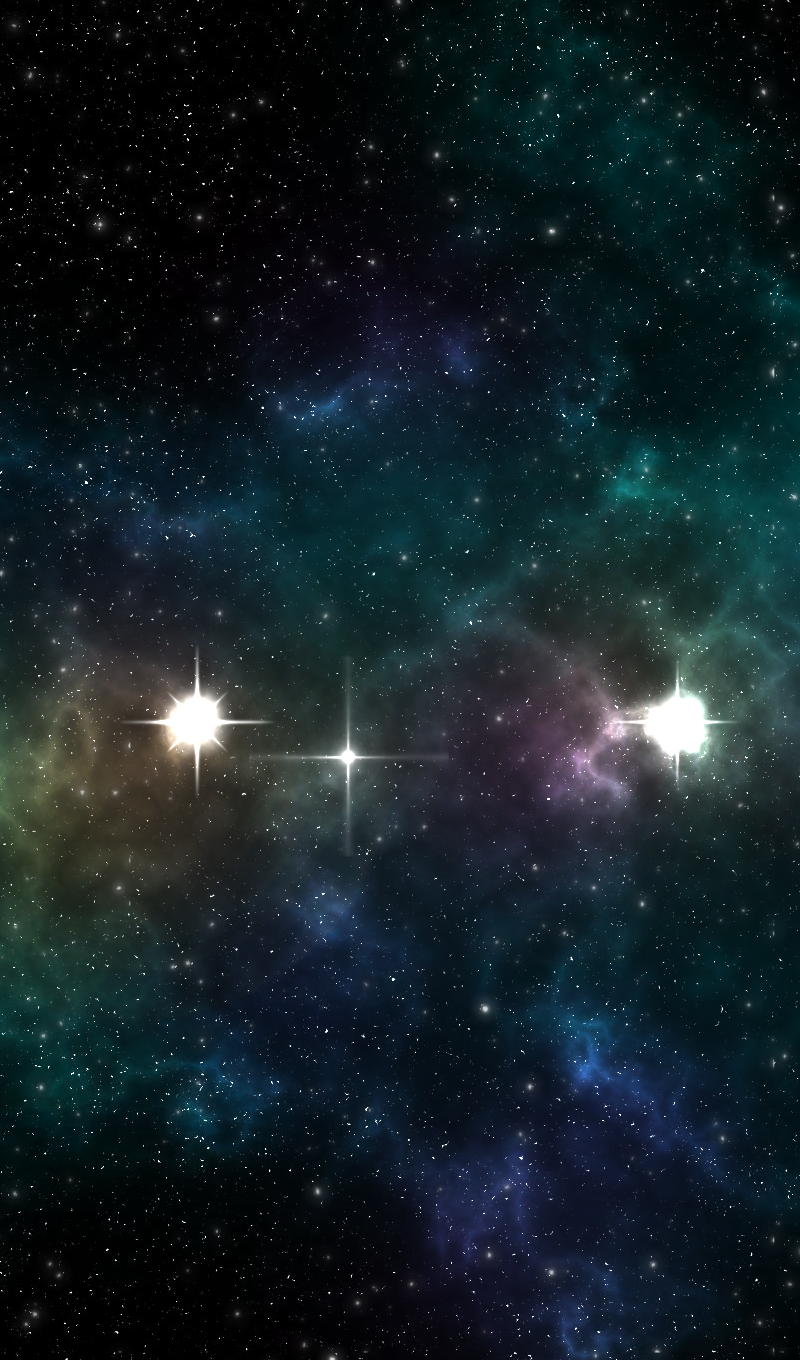
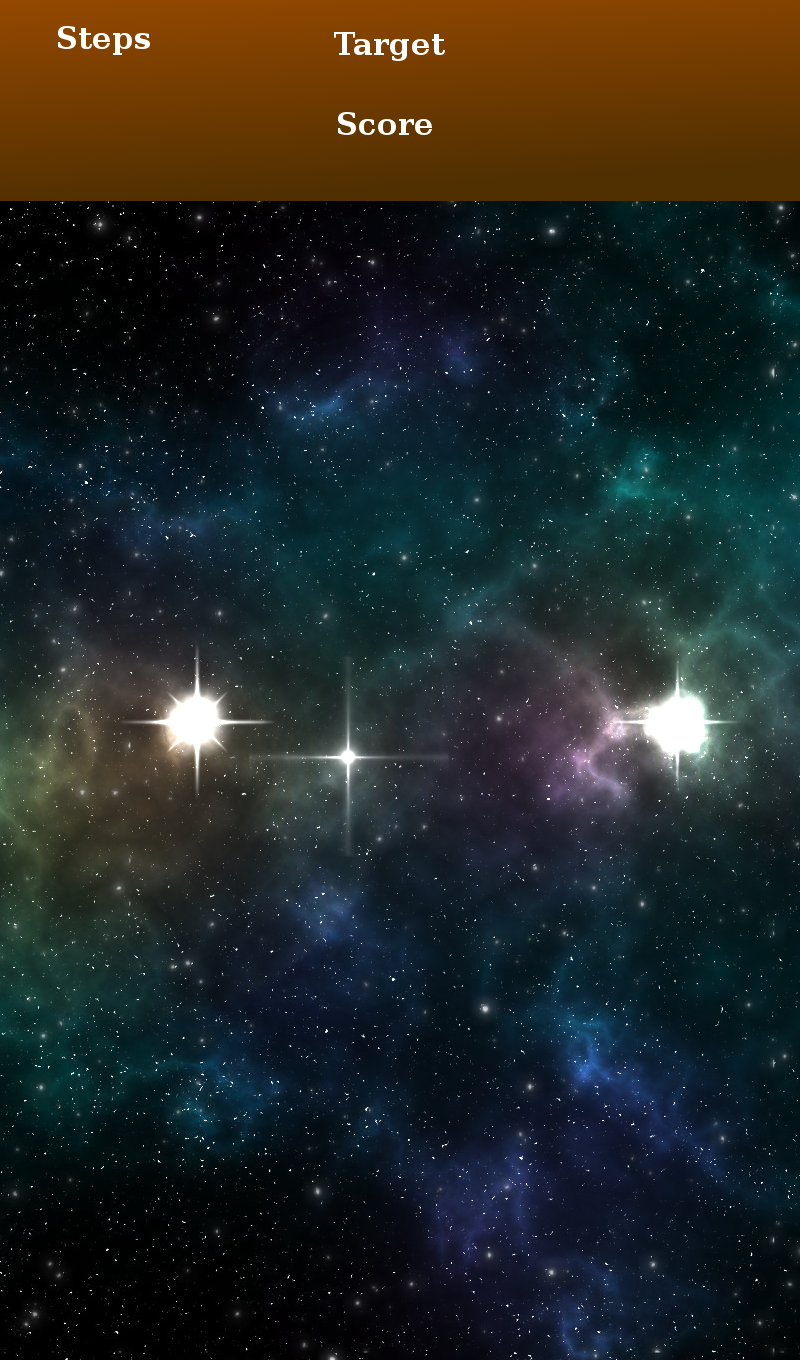
add target number, background changed

Changed region(s): [[0.0, 0.0, 1.0, 0.1544]]

diff --git a/src/GameScene/GameScene.js b/src/GameScene/GameScene.js
@@ -9,6 +9,7 @@ var Layer = cc.Layer.extend({
   gameLogic:GameLogic,
   scoreNumber:null,
   stepsNumber:null,
+  targetNumber:null,
   ctor:function () {
     this._super();
     var size = cc.winSize;
@@ -18,14 +19,19 @@ var Layer = cc.Layer.extend({
     this.addChild(gameBackground, -127);
 
     this.scoreNumber = new AnimatedNumber(4);
-    this.scoreNumber.x = size.width * 0.7;
-    this.scoreNumber.y = size.height * 0.9;
-    this.scoreNumber.scaleX = 0.6;
+    this.scoreNumber.x = size.width * 0.6;
+    this.scoreNumber.y = size.height * 0.91;
+    this.scoreNumber.scaleX = 0.8;
     this.addChild(this.scoreNumber);
     this.stepsNumber = new AnimatedNumber(3);
-    this.stepsNumber.x = 30;
-    this.stepsNumber.y = size.height * 0.9;
+    this.stepsNumber.x = 50;
+    this.stepsNumber.y = size.height * 0.93;
     this.addChild(this.stepsNumber);
+    this.targetNumber = new AnimatedNumber(4);
+    this.targetNumber.x = size.width * 0.6;
+    this.targetNumber.y = size.height * 0.97;
+    this.targetNumber.scaleX = 0.8;
+    this.addChild(this.targetNumber);
 
     this.startLevel();
     cc.eventManager.addListener({
